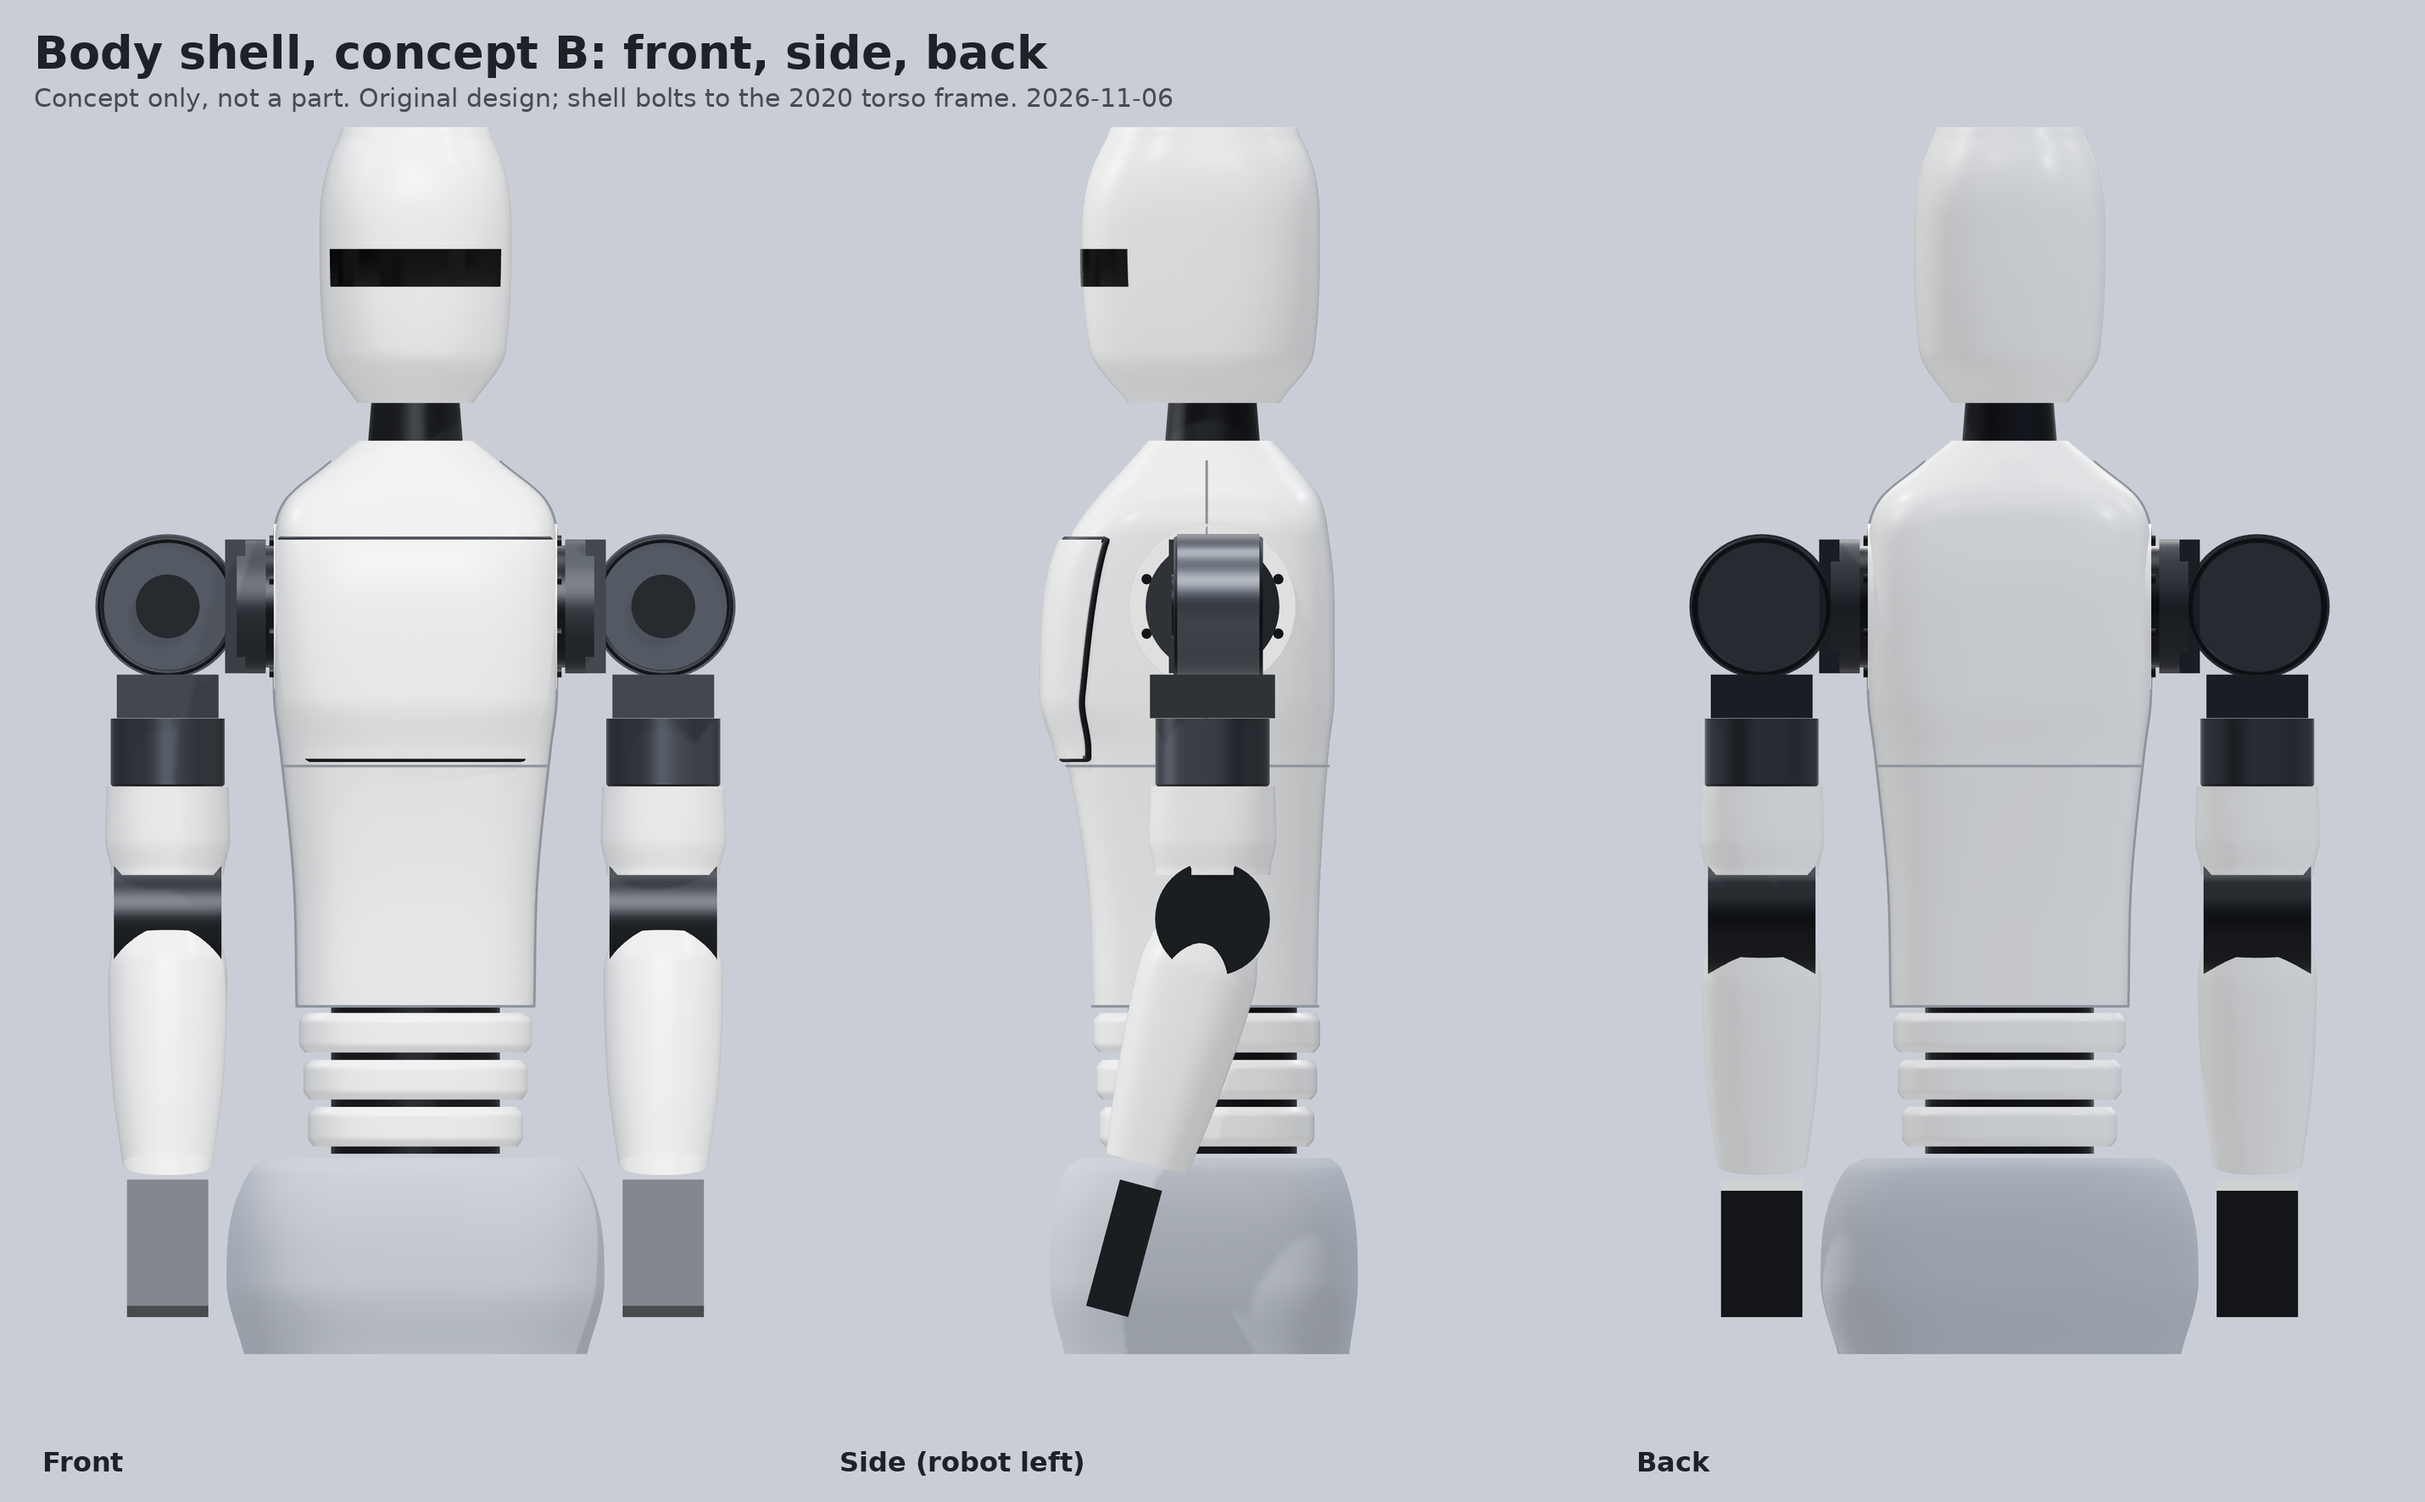
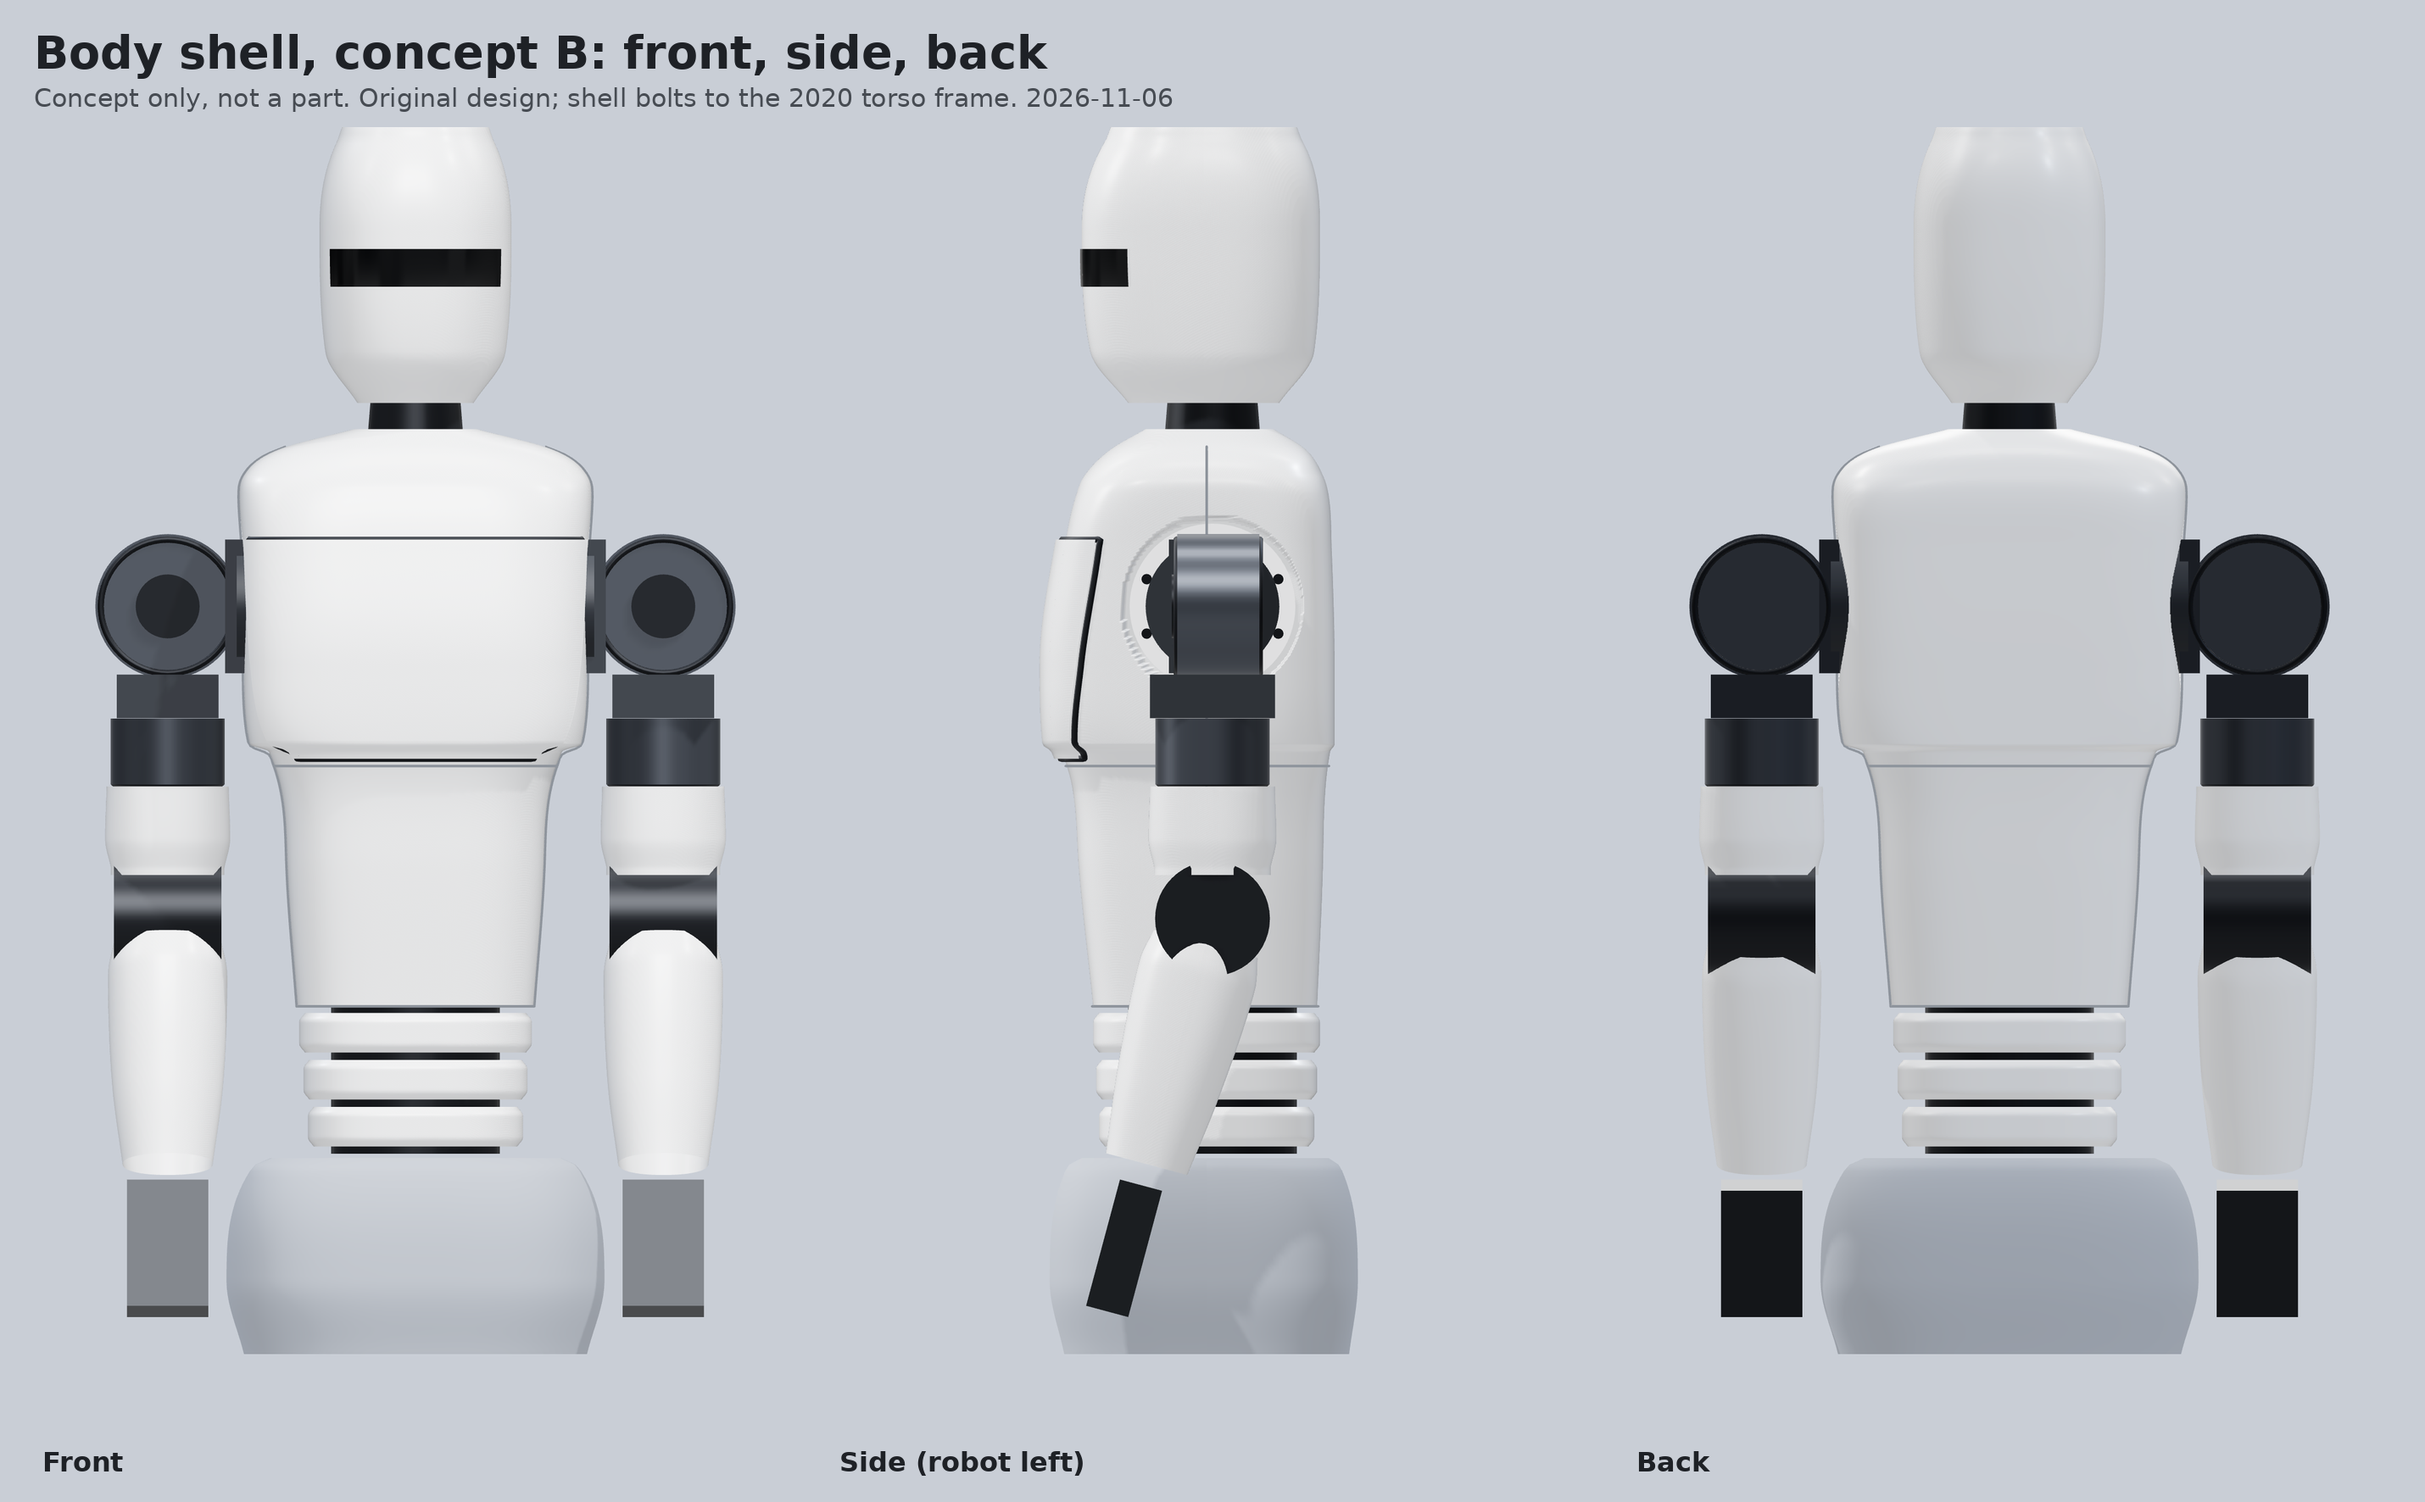
hardware(body-shell): broader shoulders, stronger taper, shoulder socket
Per Joey's markup: shoulders 242 mm across tapering to the unchanged waist;
shell steps in to the RS03 face inside a 62 mm socket around each pitch joint.

Claude-Session: https://claude.ai/code/session_01754Cr9zuADVTu8kWS5Uq1U

diff --git a/hardware/designs/body-shell/concept/generator/scene.js b/hardware/designs/body-shell/concept/generator/scene.js
@@ -66,12 +66,14 @@ function ringPt(hw, df, db, n, th, x0 = 0) {
   const x = (s >= 0 ? df : db) * sgnpow(s, 2 / n);
   return [x + x0, y];
 }
+let CLAMP = null;
 function loft(rows, z0, z1, mat, nz = 90, nt = 128, x0 = 0, th0 = 0, th1 = 2 * Math.PI, tag = null, ex = [0, 0, 0]) {
   const pos = [], idx = [];
   for (let i = 0; i <= nz; i++) {
     const z = z0 + (z1 - z0) * i / nz; const [hw, df, db, n] = interp(rows, z);
-    for (let j = 0; j <= nt; j++) { const th = th0 + (th1 - th0) * j / nt; const [x, y] = ringPt(hw, df, db, n, th, x0);
-      const v = P(x, y, z); pos.push(v.x, v.y, v.z); }
+    for (let j = 0; j <= nt; j++) { const th = th0 + (th1 - th0) * j / nt; let [x, y] = ringPt(hw, df, db, n, th, x0); let zz = z;
+      if (CLAMP) [x, y, zz] = CLAMP(x, y, z);
+      const v = P(x, y, zz); pos.push(v.x, v.y, v.z); }
   }
   for (let i = 0; i < nz; i++) for (let j = 0; j < nt; j++) {
     const a = i * (nt + 1) + j, b = a + nt + 1; idx.push(a, b, a + 1, b, b + 1, a + 1); }
@@ -102,23 +104,30 @@ function seamVert(rows, th, za, zb, x0 = 0, grow = 0.8) {
 // frame is +-75 Y, +-70 X. Arm hangs at Y=170 with 15 deg inward roll -> keep side <= ~100 below shoulder.
 const chest = [
   [F0 - 6, 81, 78, 76, 3.4],
-  [F0 + 80, 83, 82, 78, 3.4],
-  [F0 + 170, 92, 98, 84, 3.2],
-  [ZS - 62, 96.5, 108, 88, 3.8],
-  [ZS, 97, 106, 88, 4.2],
-  [ZS + 48, 96.5, 94, 84, 4.2],
-  [F1 + 4, 88, 76, 78, 3.6],
-  [F1 + 26, 62, 56, 62, 2.8],
-  [F1 + 44, 40, 40, 46, 2.4],
+  [F0 + 90, 88, 88, 80, 3.4],
+  [F0 + 170, 101, 100, 85, 3.6],
+  [ZS - 95, 114, 106, 88, 4.0],
+  [ZS - 40, 118, 108, 88, 4.6],
+  [ZS + 40, 119, 98, 86, 4.8],
+  [ZS + 76, 121, 90, 84, 4.2],
+  [F1 + 20, 118, 84, 80, 3.6],
+  [F1 + 38, 94, 66, 68, 3.0],
+  [F1 + 52, 42, 42, 46, 2.4],
 ];
+// shoulder socket: inside radius SOCK_R of the pitch axis the shell side steps in to the RS03 face (Y = +-97),
+// so the rotating P1 and roll RS03 (sweep radius ~57 mm) never touch it
+const SOCK_R = 62;
+const socket = (x, y, z) => { const r = Math.hypot(x, z - ZS); return (r < SOCK_R && Math.abs(y) > 97.5) ? [x, Math.sign(y) * 97.5, z] : [x, y, z]; };
 const SEAM_Z = F0 + 160;
-loft(chest, SEAM_Z, F1 + 44, white, 80, 80, 4, 0, Math.PI, 'chest upper front', [110, 0, 60]);
-loft(chest, SEAM_Z, F1 + 44, white, 80, 80, 4, Math.PI, 2 * Math.PI, 'chest upper back', [-110, 0, 60]);
+CLAMP = socket;
+loft(chest, SEAM_Z, F1 + 52, white, 240, 200, 4, 0, Math.PI, 'chest upper front', [110, 0, 60]);
+loft(chest, SEAM_Z, F1 + 52, white, 240, 200, 4, Math.PI, 2 * Math.PI, 'chest upper back', [-110, 0, 60]);
 loft(chest, F0 - 6, SEAM_Z, white, 50, 80, 4, 0, Math.PI, 'chest lower front', [110, 0, -40]);
 loft(chest, F0 - 6, SEAM_Z, white, 50, 80, 4, Math.PI, 2 * Math.PI, 'chest lower back (service hatch)', [-110, 0, -40]);
+CLAMP = null;
 if (!EXPLODE) { seamRing(chest, SEAM_Z, 4);
 seamRing(chest, F0 - 6 + 0.5, 4);
-seamVert(chest, 0, F0 - 6, F1 + 30, 4); seamVert(chest, Math.PI, F0 - 6, F1 + 30, 4); }
+seamVert(chest, 0, F0 - 6, F1 + 40, 4); seamVert(chest, Math.PI, F0 - 6, F1 + 40, 4); }
 // raised chest shield (separate panel) on the front only
 {
   const rows = chest.map(r => [r[0], r[1] + 6, r[2] + 7, r[3], r[4]]);
@@ -175,7 +184,7 @@ const core = new THREE.Mesh(new THREE.CylinderGeometry(9, 9, 3, 48), accent);
 core.rotation.x = Math.PI / 2; core.position.copy(P(113.5, 0, ZS - 40)); if (!XRAY) add(core);
 
 // neck collar + head placeholder
-const neck = new THREE.Mesh(new THREE.CylinderGeometry(30, 34, 50, 48), dark); neck.position.copy(P(0, 0, F1 + 50)); if (!EXPLODE) add(neck);
+const neck = new THREE.Mesh(new THREE.CylinderGeometry(30, 34, 50, 48), dark); neck.position.copy(P(0, 0, F1 + 58)); if (!EXPLODE) add(neck);
 const headRows = [[F1 + 70, 40, 52, 52, 2.2], [F1 + 105, 62, 78, 76, 2.4], [F1 + 190, 66, 84, 80, 2.6], [F1 + 250, 54, 68, 68, 2.4], [F1 + 274, 36, 46, 46, 2.2], [F1 + 284, 4, 4, 4, 2]];
 if (!EXPLODE) loft(headRows, F1 + 70, F1 + 284, white, 60, 96, 6);
 if (!EXPLODE) { // visor: thin dark strip following head front

diff --git a/hardware/designs/body-shell/concept/generator/compose.py b/hardware/designs/body-shell/concept/generator/compose.py
@@ -21,7 +21,7 @@ def sheet(panels, title, sub, out, notes=None):
         for n in notes: d.text((pad, y), n, font=f(30), fill=(40, 44, 50)); y += 44
     S.save('final/' + out, optimize=True); print(out, S.size)
 sub = 'Concept only, not a part. Original design; shell bolts to the 2020 torso frame. 2026-11-06'
-sheet([(crop('hero.png', (560, 0, 2640, 2400)), 'Shoulders exposed; shell ends at the pitch RS03 faces')], 'Marengo body shell, concept B', sub, 'SHELL_CONCEPT_HERO.png')
+sheet([(crop('hero.png', (560, 0, 2640, 2400)), 'Broad shoulders wrap the pitch joint; arm mechanics exposed')], 'Marengo body shell, concept B', sub, 'SHELL_CONCEPT_HERO.png')
 sheet([(crop(n + '.png', (900, 0, 2300, 2400), w=900), l) for n, l in [('front', 'Front'), ('side', 'Side (robot left)'), ('back', 'Back')]],
       'Body shell, concept B: front, side, back', sub, 'SHELL_CONCEPT_VIEWS.png')
 sheet([(crop('fullA.png', (1100, 0, 2100, 2400), w=760), 'Frame as built: shoulder 1165 mm'),
@@ -30,10 +30,10 @@ sheet([(crop('fullA.png', (1100, 0, 2100, 2400), w=760), 'Frame as built: should
       'Longer stomach: +70 mm waist section', sub, 'SHELL_CONCEPT_PROPORTIONS.png',
       ['Legs are grey placeholders at the draft lengths in kinematics.md (5 ft total). The extension goes between the waist yaw and the frame,',
        'which closes the ~70 mm shoulder-height shortfall and gives the longer belly. Arms at 215 + 195 + 90 mm read short against a 5 ft body.'])
-sheet([(crop('shoulder.png', (0, 0, 3200, 2400), w=1300), 'Shoulder: shell side flush with the RS03 face, collar under the outer-ring bolts'),
+sheet([(crop('shoulder.png', (0, 0, 3200, 2400), w=1300), 'Shoulder socket: shell steps in to the RS03 face around the joint'),
        (crop('explode.png', (600, 350, 2600, 2250), w=1000), 'Print panels, exploded')],
       'Body shell, concept B: shoulder interface and P2S panel split', sub, 'SHELL_CONCEPT_PANELS.png',
-      ['Upper chest spans RS03 face to RS03 face (194 mm). Shoulder collar: 114 mm OD ring, about 3 mm thick, clamped under the RS03 outer-ring bolts.',
-       'Those bolts also hold the motor to its bracket, so the collar is not final until the arm thread confirms screw length and grip.',
-       '13 panels, largest 194 x 224 x 108 mm, all inside the P2S 256 mm cube: chest upper/lower front and back, chest shield, 2 collars, 3 abdomen bands x2.',
-       'Exposed shoulder parts (P1, roll RS03, P2, upper-arm yaw RS02) are simple stand-ins here; the real ones come from the arm CAD.'])
+      ['Shoulders 242 mm across, tapering to 162 mm at the waist. Around the pitch joint the shell steps in to the RS03 face (Y +-97) inside a 62 mm',
+       'radius socket, clear of the ~57 mm P1/roll sweep. The collar (114 mm OD) sits in the socket under the RS03 outer-ring bolts; those bolts also',
+       'hold the motor to its bracket, so the collar waits on the arm thread. Socket edge is jagged only in this mock-up render.',
+       '13 panels, largest 242 x 232 x 108 mm (chest upper front), all inside the P2S 256 mm cube. Shoulder parts shown are stand-ins.'])

diff --git a/hardware/designs/body-shell/concept/README.md b/hardware/designs/body-shell/concept/README.md
@@ -3,9 +3,10 @@
 2026-11-06. Concept renders only. This is not a part and is not released for printing.
 
 A white shell over the 2020 torso frame, from Joey's silhouette sketch: a broad chest, a taper to the waist,
-and a longer stomach. Concept B (Joey, 2026-11-06): no shell on the shoulders. At shoulder height the torso shell
-spans from one pitch RS03 face to the other (Y ±97) and mounts by a collar under each RS03's outer-ring bolts;
-P1, the roll RS03, P2 and everything outboard stay exposed. Concept A (deltoid caps) is in git history. The look takes cues from the film reference Joey
+and a longer stomach. Concept B (Joey, 2026-11-06): no shell on the arm's shoulder parts. The torso is broad at the shoulders and
+tapers to the waist (from Joey's markup). Around each pitch joint the shell steps in to the RS03 face (Y ±97)
+inside a 62 mm radius socket and mounts by a collar under the RS03's outer-ring bolts; P1, the roll RS03, P2
+and everything outboard stay exposed. Concept A (deltoid caps) is in git history. The look takes cues from the film reference Joey
 gave (white chest over darker mechanics) but the shapes are original. The renders are a parametric
 mock-up, not SolidWorks; the real panels get modelled on Joey-PC once the look is agreed.
 
@@ -23,14 +24,15 @@ mock-up, not SolidWorks; the real panels get modelled on Joey-PC once the look i
 | Frame | 140 deep x 150 wide x 340 tall | `docs/kinematics.md` |
 | Shoulder pitch axis | 424.9 mm above pelvis bottom; output faces at Y ±97 | `docs/kinematics.md` |
 | Arm line | Y ±170.5 | `designs/left-arm/urdf/left_arm.urdf` |
-| Chest shell, widest | 194 mm at the shoulders (RS03 face to face), 82 mm waist half-width | this concept |
+| Chest shell, widest | 242 mm at the shoulders, 162 mm at the waist | this concept |
+| Shoulder socket | 62 mm radius around the pitch axis, floor at the RS03 face (Y ±97.5); P1/roll sweep is ~57 mm | this concept |
 | Chest depth | 108 mm front + 88 mm back of frame centre (196 mm) | this concept |
 | Shoulder collar | 114 mm OD, 86 mm ID, about 3 mm, under the RS03 outer-ring bolts | this concept |
 | Waist extension (option) | +70 mm between waist yaw and frame | closes the shoulder-height shortfall |
 
 ## Panels (Bambu P2S, 256 x 256 x 256 mm)
 
-13 panels, all inside the build volume. The largest is the chest upper front at 194 x 224 x 108 mm.
+13 panels, all inside the build volume. The largest is the chest upper front at 242 x 232 x 108 mm (14 mm margin).
 
 - Chest: upper front, upper back, lower front, lower back (magnet-held service hatch for the Pi).
 - Chest shield: separate raised front plate, so it can be printed in a different finish.
@@ -46,7 +48,8 @@ the outer frame slots, M3 heat-set inserts in the panel bosses, lapped seams.
   envelope README (`designs/left-arm/envelope/`) confirms which bolts, screw length, thread engagement, and the extra
   grip a 2–3 mm printed flange needs. Printed plastic under a structural bolt can creep; check that it is acceptable.
 - P1 and the roll RS03 must never sweep into a plane about 3 mm outboard of the pitch housing face.
-- The chest side is at Y ±97 near the shoulder. Check the upper arm at 15° inward roll against it with the swept envelope.
+- The chest side reaches Y ±114–118 just below the shoulder; the hanging upper arm's inner face is about Y 126. That leaves
+  roughly 8–12 mm at zero roll, so inward roll is close to 0° with this shape. Check against the arm swept envelope.
 - The exposed shoulder parts in these renders are simple stand-ins, not the real P1/P2 geometry.
 - At 215 + 195 + 90 mm the arms read short against a 5 ft body in the proportion view.
 - The +70 mm waist section changes the URDF torso height and needs a structural spacer, not just shell.
